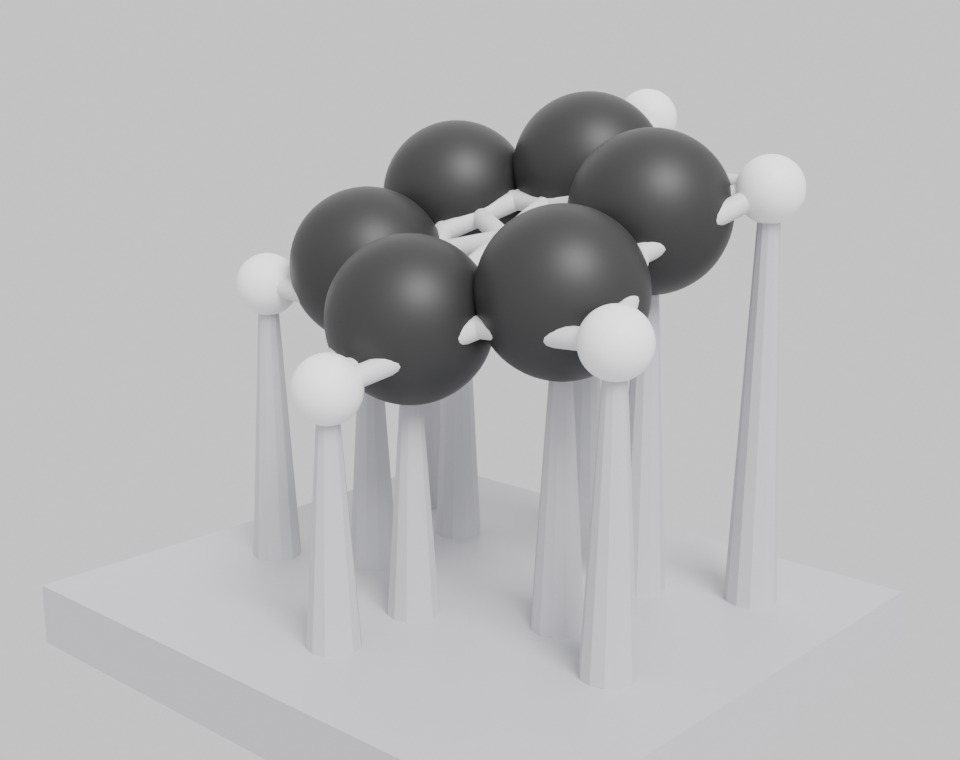
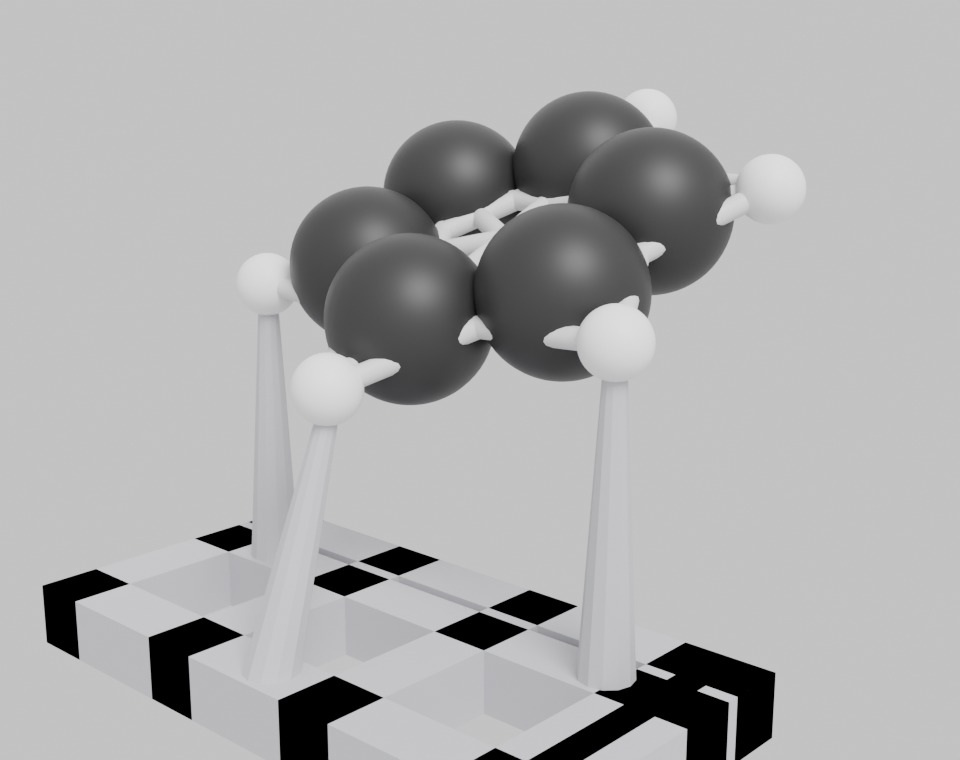
Supports: atom-aware pillars, exposed parameters, live rebuild
- A pillar whose vertical path would run through another atom sphere no
  longer pierces it: it starts on top of the highest blocking sphere
  instead of the plate (support stacking), slightly embedded for
  adhesion.
- New parameters on both the export dialog and the new 'Rebuild
  3D-print supports' operator in the ASE panel: base radius (at the
  plate), contact radius (at the atom), plate thickness, and plate
  holes. With holes on, the plate is a beam lattice with drainage
  openings and plate pillars snap (slanting slightly) onto the nearest
  beam so every pillar lands on material.
- Non-destructive iteration: auto-generated supports carry an
  ase_auto_supports marker and are replaced on rebuild/export with the
  current parameters; user-made support objects are never touched. The
  panel operator is adjustable in the redo panel, so parameters rebuild
  live.

Gallery panel re-rendered with the lattice plate.

diff --git a/blender_importASE/exports.py b/blender_importASE/exports.py
@@ -42,94 +42,169 @@ def export_xyz(obj, filepath):
     return len(atoms)
 
 
-def build_supports(atom_objects, collection, pillar_radius=0.25,
-                   support_layer=0.8, plate_thickness=0.6, plate_margin=1.0,
-                   tip_fraction=0.4, pillar_length=2.0, segments=12):
+def build_supports(atom_objects, collection, base_radius=0.25, tip_radius=0.1,
+                   support_layer=0.8, plate_thickness=0.6, plate_holes=True,
+                   plate_margin=1.0, pillar_length=2.0, segments=12):
     """Resin supports: a base plate below the model and tapered pillars up
-    to every atom that would print as an island. Working bottom-up, an
-    atom counts as supported when it is bonded (covalent radii * 1.2) to
-    an already-supported atom that is at most 'support_layer' higher -
-    everything else gets a pillar, so floating fragments and upward-only
-    branches are supported too. Returns the created object."""
+    to every atom that would print as an island.
+
+    Working bottom-up, an atom counts as supported when it is bonded
+    (covalent radii * 1.2) to an already-supported atom at most
+    'support_layer' higher - everything else gets a pillar, so floating
+    fragments and upward-only branches are supported too.
+
+    A pillar whose vertical path would run through another atom sphere
+    starts on top of the highest blocking sphere instead of the plate
+    (support stacking). With plate_holes, the plate is a lattice of beams
+    with drainage holes, and plate pillars snap to the nearest beam.
+
+    base_radius/tip_radius: pillar radius at the plate and at the atom
+    contact point. Returns the created object.
+    """
     from ase.data import covalent_radii, atomic_numbers
 
-    centers, bottoms, radii = [], [], []
+    centers, sphere_radii, bond_radii = [], [], []
     for ob in atom_objects:
         corners = [ob.matrix_world @ Vector(c) for c in ob.bound_box]
         origin = np.array(ob.matrix_world.translation)
         centers.append(origin)
-        bottoms.append((origin[0], origin[1], min(v.z for v in corners)))
+        zs = [v.z for v in corners]
+        sphere_radii.append((max(zs) - min(zs)) / 2)
         symbol = ob.name.split('.')[0]
-        radii.append(covalent_radii[atomic_numbers.get(symbol, 6)])
+        bond_radii.append(covalent_radii[atomic_numbers.get(symbol, 6)])
     centers = np.array(centers)
-    radii = np.array(radii)
+    sphere_radii = np.array(sphere_radii)
+    bond_radii = np.array(bond_radii)
     n = len(centers)
 
     # bond connectivity from distances (matches the drawn bonds closely)
     distances = np.linalg.norm(centers[:, None, :] - centers[None, :, :], axis=2)
-    cutoff = 1.2 * (radii[:, None] + radii[None, :])
+    cutoff = 1.2 * (bond_radii[:, None] + bond_radii[None, :])
     bonded = (distances < cutoff) & ~np.eye(n, dtype=bool)
 
     # bottom-up island analysis: pillar every atom without a supported,
     # not-too-much-higher bonded neighbor
     order = np.argsort(centers[:, 2])
     is_supported = np.zeros(n, dtype=bool)
-    supported = []
+    pillar_atoms = []
     for i in order:
         holds = [j for j in np.nonzero(bonded[i])[0]
                  if is_supported[j] and centers[j, 2] <= centers[i, 2] + support_layer]
         if not holds:
-            supported.append(bottoms[i])
+            pillar_atoms.append(i)
         is_supported[i] = True
-    zfloor = min(b[2] for b in bottoms)
 
+    zfloor = float((centers[:, 2] - sphere_radii).min())
     plate_top = zfloor - pillar_length
+
+    # pillar start points: the plate, or the top of the highest atom sphere
+    # blocking the vertical path (support stacking)
+    plate_pillars, stacked_pillars = [], []
+    for i in pillar_atoms:
+        x, y = centers[i, 0], centers[i, 1]
+        target_z = centers[i, 2] - sphere_radii[i]
+        start_z = None
+        for j in range(n):
+            if j == i:
+                continue
+            d_xy = math.hypot(centers[j, 0] - x, centers[j, 1] - y)
+            if d_xy >= sphere_radii[j]:
+                continue
+            top_at_column = centers[j, 2] + math.sqrt(sphere_radii[j]**2 - d_xy**2)
+            if top_at_column < target_z and (start_z is None or top_at_column > start_z):
+                start_z = top_at_column
+        if start_z is None:
+            plate_pillars.append((x, y, target_z))
+        else:
+            stacked_pillars.append((x, y, target_z, start_z - 0.1))  # embed base
+
     verts, faces = [], []
 
     def add_ring(x, y, z, radius):
         start = len(verts)
-        for i in range(segments):
-            a = 2 * math.pi * i / segments
+        for k in range(segments):
+            a = 2 * math.pi * k / segments
             verts.append((x + radius * math.cos(a), y + radius * math.sin(a), z))
         return start
 
-    for x, y, z in supported:
-        bottom = add_ring(x, y, plate_top, pillar_radius)
-        top = add_ring(x, y, z + 0.1, pillar_radius * tip_fraction)  # embed tip
-        for i in range(segments):
-            j = (i + 1) % segments
-            faces.append([bottom + i, bottom + j, top + j, top + i])
-        # cap the tip
-        faces.append([top + i for i in range(segments)][::-1])
+    def add_pillar(base_x, base_y, base_z, tip_x, tip_y, tip_z):
+        bottom = add_ring(base_x, base_y, base_z, base_radius)
+        top = add_ring(tip_x, tip_y, tip_z + 0.1, tip_radius)  # embed tip
+        for k in range(segments):
+            m = (k + 1) % segments
+            faces.append([bottom + k, bottom + m, top + m, top + k])
+        faces.append([top + k for k in range(segments)][::-1])
+        faces.append([bottom + k for k in range(segments)])
 
-    # base plate under all pillars
-    xs = [b[0] for b in supported]
-    ys = [b[1] for b in supported]
+    # plate layout (beam lattice with drainage holes, or a solid slab)
+    xs = [p[0] for p in plate_pillars] or [c[0] for c in centers]
+    ys = [p[1] for p in plate_pillars] or [c[1] for c in centers]
     x0, x1 = min(xs) - plate_margin, max(xs) + plate_margin
     y0, y1 = min(ys) - plate_margin, max(ys) + plate_margin
+    beam = max(0.6, 2 * base_radius)
+    pitch = 3 * beam
+
+    def snap_to_lattice(x, y):
+        """Nearest point on the beam centerlines (frame + slats)."""
+        slat_xs = [x0 + beam / 2, x1 - beam / 2]
+        sx = x0 + beam / 2 + pitch
+        while sx < x1 - beam / 2:
+            slat_xs.append(sx)
+            sx += pitch
+        slat_ys = [y0 + beam / 2, y1 - beam / 2]
+        sy = y0 + beam / 2 + pitch
+        while sy < y1 - beam / 2:
+            slat_ys.append(sy)
+            sy += pitch
+        nearest_x = min(slat_xs, key=lambda s: abs(s - x))
+        nearest_y = min(slat_ys, key=lambda s: abs(s - y))
+        # snapping one coordinate onto a slat centerline is enough
+        if abs(nearest_x - x) <= abs(nearest_y - y):
+            return nearest_x, y, slat_xs, slat_ys
+        return x, nearest_y, slat_xs, slat_ys
+
+    def add_box(bx0, bx1, by0, by1, bz0, bz1):
+        base = len(verts)
+        verts.extend([(bx0, by0, bz0), (bx1, by0, bz0), (bx1, by1, bz0), (bx0, by1, bz0),
+                      (bx0, by0, bz1), (bx1, by0, bz1), (bx1, by1, bz1), (bx0, by1, bz1)])
+        faces.extend([[base, base + 1, base + 2, base + 3][::-1],
+                      [base + 4, base + 5, base + 6, base + 7],
+                      [base, base + 1, base + 5, base + 4],
+                      [base + 1, base + 2, base + 6, base + 5],
+                      [base + 2, base + 3, base + 7, base + 6],
+                      [base + 3, base, base + 4, base + 7]])
+
     z0, z1 = plate_top - plate_thickness, plate_top
-    base = len(verts)
-    verts.extend([(x0, y0, z0), (x1, y0, z0), (x1, y1, z0), (x0, y1, z0),
-                  (x0, y0, z1), (x1, y0, z1), (x1, y1, z1), (x0, y1, z1)])
-    faces.extend([[base, base + 1, base + 2, base + 3][::-1],
-                  [base + 4, base + 5, base + 6, base + 7],
-                  [base, base + 1, base + 5, base + 4],
-                  [base + 1, base + 2, base + 6, base + 5],
-                  [base + 2, base + 3, base + 7, base + 6],
-                  [base + 3, base, base + 4, base + 7]])
+    if plate_pillars:
+        if plate_holes:
+            slat_xs = slat_ys = None
+            for x, y, target_z in plate_pillars:
+                bx, by, slat_xs, slat_ys = snap_to_lattice(x, y)
+                add_pillar(bx, by, plate_top, x, y, target_z)
+            for sx in slat_xs:
+                add_box(sx - beam / 2, sx + beam / 2, y0, y1, z0, z1)
+            for sy in slat_ys:
+                add_box(x0, x1, sy - beam / 2, sy + beam / 2, z0, z1)
+        else:
+            for x, y, target_z in plate_pillars:
+                add_pillar(x, y, plate_top, x, y, target_z)
+            add_box(x0, x1, y0, y1, z0, z1)
+
+    for x, y, target_z, start_z in stacked_pillars:
+        add_pillar(x, y, start_z, x, y, target_z)
 
     mesh = bpy.data.meshes.new('supports')
     mesh.from_pydata(verts, [], faces)
     mesh.update()
     obj = bpy.data.objects.new('supports', mesh)
     collection.objects.link(obj)
+    obj['ase_auto_supports'] = True
     return obj
 
 
-def export_3dprint(context, filepath, generate_supports=True,
-                   pillar_radius=0.25, support_layer=0.8):
-    """Export the collection of the active object as per-element STLs,
-    the bonds, and supports, zipped into `filepath`."""
+def collect_print_objects(context):
+    """The atom groups, bonds, and support objects of the active object's
+    import collection. Returns (collection, groups, bonds, supports)."""
     active = context.active_object
     if active is None or not active.users_collection:
         raise ValueError('select an object of the imported structure first')
@@ -157,12 +232,43 @@ def export_3dprint(context, filepath, generate_supports=True,
         raise ValueError(
             f"no atom objects found in collection '{collection.name}' - "
             "use the 3D print representation")
+    return collection, groups, bonds, supports
 
-    if generate_supports and not supports:
-        atom_objects = [ob for objs in groups.values() for ob in objs]
-        supports = [build_supports(atom_objects, collection,
-                                   pillar_radius=pillar_radius,
-                                   support_layer=support_layer)]
+
+def rebuild_supports(context, **params):
+    """(Re)generate the automatic supports of the active structure with the
+    given build_supports parameters. Auto-generated supports (marked with
+    the ase_auto_supports property) are replaced; user-made support
+    objects are left alone."""
+    collection, groups, bonds, supports = collect_print_objects(context)
+    kept = []
+    for ob in supports:
+        if ob.get('ase_auto_supports'):
+            bpy.data.objects.remove(ob, do_unlink=True)
+        else:
+            kept.append(ob)
+    atom_objects = [ob for objs in groups.values() for ob in objs]
+    kept.append(build_supports(atom_objects, collection, **params))
+    return kept
+
+
+def export_3dprint(context, filepath, generate_supports=True,
+                   base_radius=0.25, tip_radius=0.1, support_layer=0.8,
+                   plate_thickness=0.6, plate_holes=True):
+    """Export the collection of the active object as per-element STLs,
+    the bonds, and supports, zipped into `filepath`."""
+    collection, groups, bonds, supports = collect_print_objects(context)
+
+    user_supports = [ob for ob in supports if not ob.get('ase_auto_supports')]
+    if generate_supports and not user_supports:
+        # regenerate the auto supports with the current parameters
+        supports = rebuild_supports(context, base_radius=base_radius,
+                                    tip_radius=tip_radius,
+                                    support_layer=support_layer,
+                                    plate_thickness=plate_thickness,
+                                    plate_holes=plate_holes)
+    elif user_supports:
+        supports = user_supports
 
     tmpdir = tempfile.mkdtemp(prefix='ase_3dprint_')
 

diff --git a/blender_importASE/controls.py b/blender_importASE/controls.py
@@ -179,6 +179,42 @@ def _find_density_modifiers(obj):
     return found
 
 
+class ASE_OT_rebuild_supports(bpy.types.Operator):
+    """(Re)generate the 3D-print supports of the active structure; adjust
+    the parameters in the redo panel (F9) and the supports rebuild live"""
+    bl_idname = 'ase.rebuild_supports'
+    bl_label = 'Rebuild 3D-print supports'
+    bl_options = {'REGISTER', 'UNDO'}
+
+    base_radius: bpy.props.FloatProperty(
+        name="base radius", default=0.25, min=0.01, soft_max=1.0,
+        description="pillar radius at the plate")
+    tip_radius: bpy.props.FloatProperty(
+        name="contact radius", default=0.1, min=0.01, soft_max=1.0,
+        description="pillar radius at the atom contact point")
+    support_layer: bpy.props.FloatProperty(
+        name="support climb", default=0.8, min=0.0, soft_max=5.0,
+        description="an atom counts as supported by a bonded neighbor at most this much lower or higher")
+    plate_thickness: bpy.props.FloatProperty(
+        name="plate thickness", default=0.6, min=0.1, soft_max=3.0)
+    plate_holes: bpy.props.BoolProperty(
+        name="plate holes", default=True,
+        description="beam lattice with drainage holes instead of a solid slab")
+
+    def execute(self, context):
+        from .exports import rebuild_supports
+        try:
+            rebuild_supports(context, base_radius=self.base_radius,
+                             tip_radius=self.tip_radius,
+                             support_layer=self.support_layer,
+                             plate_thickness=self.plate_thickness,
+                             plate_holes=self.plate_holes)
+        except ValueError as exc:
+            self.report({'ERROR'}, str(exc))
+            return {'CANCELLED'}
+        return {'FINISHED'}
+
+
 class ASE_PT_controls(bpy.types.Panel):
     bl_label = 'ASE structure'
     bl_space_type = 'VIEW_3D'
@@ -198,6 +234,15 @@ class ASE_PT_controls(bpy.types.Panel):
             _draw_modifier_inputs(box, mod)
             if mod.node_group.name.startswith('atoms_and_bonds'):
                 self.draw_tables(context, box)
+
+        # 3D-print supports: offered when the collection has real atom
+        # meshes (the 3D print representation)
+        from ase.data import chemical_symbols as _symbols
+        if any(o.type == 'MESH' and o.name.split('.')[0] in _symbols
+               for o in obj.users_collection[0].all_objects):
+            box = self.layout.box()
+            box.label(text='3D printing')
+            box.operator('ase.rebuild_supports', icon='MOD_LATTICE')
 
         # electron densities live on sibling objects in the same collection
         # (a spin-polarized CHGCAR yields a total and a spin volume)
@@ -242,7 +287,8 @@ class ASE_PT_controls(bpy.types.Panel):
                     op.pair_id = pid
 
 
-classes = (ASE_OT_toggle_pair_cut, ASE_OT_set_radius_mode, ASE_PT_controls)
+classes = (ASE_OT_toggle_pair_cut, ASE_OT_set_radius_mode,
+           ASE_OT_rebuild_supports, ASE_PT_controls)
 
 
 def register():

diff --git a/blender_importASE/__init__.py b/blender_importASE/__init__.py
@@ -601,13 +601,20 @@ class ExportASE3DPrint(bpy.types.Operator, ExportHelper):
 
     generate_supports: bpy.props.BoolProperty(
         name="generate supports",
-        description="generate a base plate with tapered pillars up to the lowest atoms (skipped when the collection already contains a 'supports' object)",
+        description="(re)generate the automatic supports with the parameters below; a user-made 'supports' object is used instead when present",
         default=True,
     )
-    pillar_radius: bpy.props.FloatProperty(
-        name="pillar radius",
-        description="support pillar radius (structure units, i.e. Angstrom)",
+    base_radius: bpy.props.FloatProperty(
+        name="base radius",
+        description="pillar radius at the plate (structure units, i.e. Angstrom)",
         default=0.25,
+        min=0.01,
+        soft_max=1.0,
+    )
+    tip_radius: bpy.props.FloatProperty(
+        name="contact radius",
+        description="pillar radius at the atom contact point",
+        default=0.1,
         min=0.01,
         soft_max=1.0,
     )
@@ -618,6 +625,18 @@ class ExportASE3DPrint(bpy.types.Operator, ExportHelper):
         min=0.0,
         soft_max=5.0,
     )
+    plate_thickness: bpy.props.FloatProperty(
+        name="plate thickness",
+        description="thickness of the base plate",
+        default=0.6,
+        min=0.1,
+        soft_max=3.0,
+    )
+    plate_holes: bpy.props.BoolProperty(
+        name="plate holes",
+        description="build the plate as a beam lattice with drainage holes instead of a solid slab (plate pillars snap to the nearest beam)",
+        default=True,
+    )
 
     @classmethod
     def poll(cls, context):
@@ -626,16 +645,22 @@ class ExportASE3DPrint(bpy.types.Operator, ExportHelper):
     def draw(self, context):
         layout = self.layout
         layout.prop(self, 'generate_supports')
-        layout.prop(self, 'pillar_radius')
+        layout.prop(self, 'base_radius')
+        layout.prop(self, 'tip_radius')
         layout.prop(self, 'support_layer')
+        layout.prop(self, 'plate_thickness')
+        layout.prop(self, 'plate_holes')
 
     def execute(self, context):
         from .exports import export_3dprint
         try:
             files = export_3dprint(context, self.filepath,
                                    generate_supports=self.generate_supports,
-                                   pillar_radius=self.pillar_radius,
-                                   support_layer=self.support_layer)
+                                   base_radius=self.base_radius,
+                                   tip_radius=self.tip_radius,
+                                   support_layer=self.support_layer,
+                                   plate_thickness=self.plate_thickness,
+                                   plate_holes=self.plate_holes)
         except ValueError as exc:
             self.report({'ERROR'}, str(exc))
             return {'CANCELLED'}